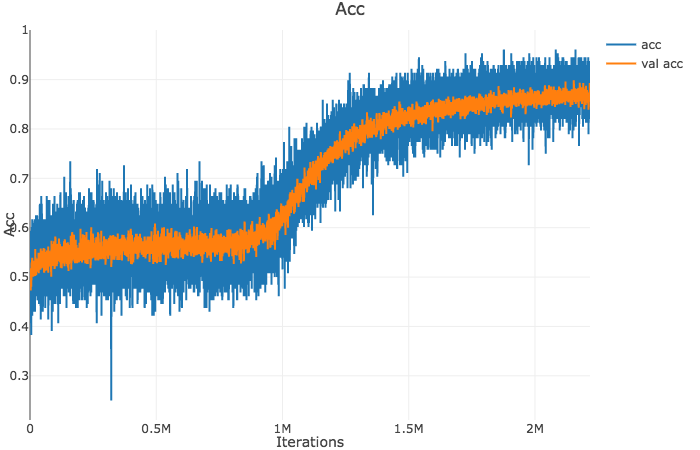
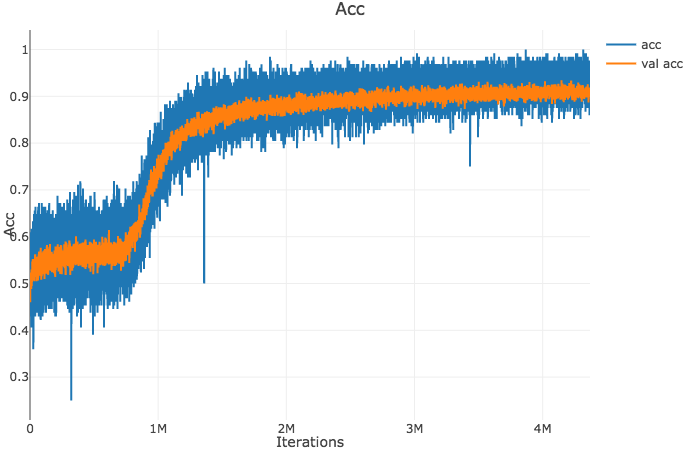
update plots for longer rn

diff --git a/README.md b/README.md
@@ -67,8 +67,8 @@ the corresponding models reported in the paper. Why is this? I don't know, but
 two possible explanations relate to slow training dynamics and minor differences
 in hyperparameters.
     * The RN runs into an obstacle during training. From about iteration 100K to
-      iteration 900K the model seems to have converged. However, there's a
-      20%-30% gain in validation accuracy that begins at about iteration 1M
+      iteration 700K the model seems to have converged. However, there's a
+      30%-35% gain in validation accuracy that begins at about iteration 1M
       (left plot). The model initially can not answer any questions about
       bar/pie charts, but it suddenly starts to do well on these kinds of plots
       at that transition point.
@@ -81,7 +81,8 @@ in hyperparameters.
     * Some hyperparameters are slightly different than the ones
       specified in the paper, though I have tried to be fairly accurate
       in my replication of hyperparameters. (One exception is the
-      learning rate decay, which is 1.0 instead of 0.9.)
+      learning rate decay, which is 1.0 instead of 0.9 since 0.9 did
+      not converge for me.)
 
 
 [figqa_site]: https://datasets.maluuba.com/FigureQA
